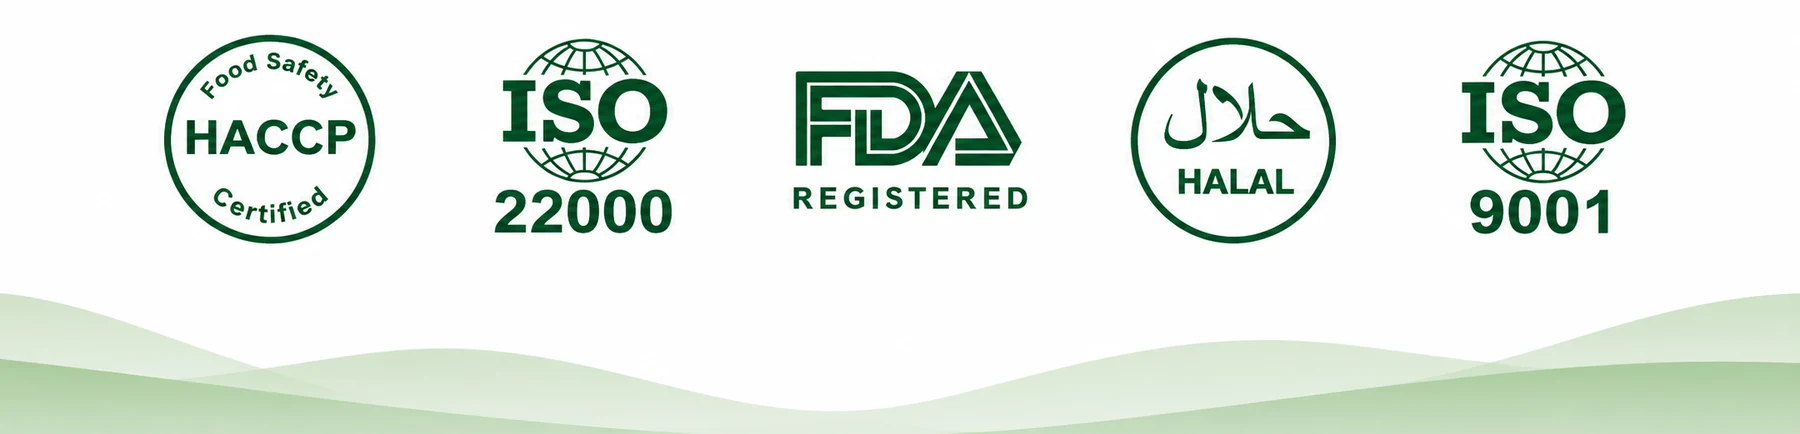
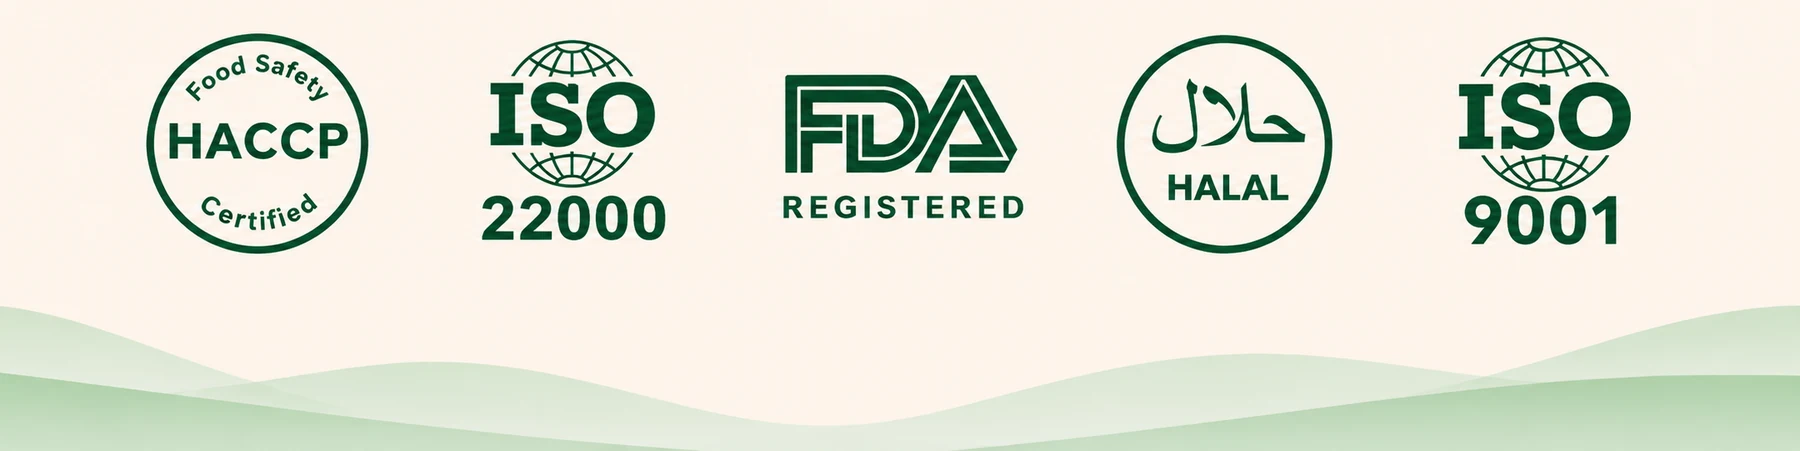
Certifications: cream background version
Claude-Session: https://claude.ai/code/session_01Wu3ib24CSR1WmWNgsW1HyU

diff --git a/css/style.css b/css/style.css
@@ -541,7 +541,7 @@ p{ margin:0 0 1em; color:var(--ink-soft); max-width:62ch; }
 @media (max-width:900px){ .hero{ height:auto !important; } .hero .wave{ display:none; } .hero-grid > div{ max-width:none; } .hero{ padding-top:36px !important; } }
 
 /* ---- certifications banner ---- */
-.cert-section{ background:#fefefe; padding-top:clamp(40px,5vw,64px); overflow:hidden; }
+.cert-section{ background:#fdf4eb; padding-top:clamp(40px,5vw,64px); overflow:hidden; }
 .cert-title{ text-align:center; margin:0; font-family:var(--font-body, inherit); font-weight:800; text-transform:uppercase;
   letter-spacing:.28em; font-size:clamp(1.1rem,2.6vw,2rem);
   background:linear-gradient(90deg,var(--green-800) 0%,var(--green-800) 40%,var(--gold) 100%); -webkit-background-clip:text; background-clip:text; color:transparent; }

diff --git a/index.html b/index.html
@@ -164,7 +164,7 @@
   <div class="container">
     <h2 class="cert-title reveal" data-en="Our Certifications" data-vi="Chứng nhận của chúng tôi">Our Certifications</h2>
   </div>
-  <img class="cert-strip" src="images/cert-strip.webp" alt="HACCP Food Safety Certified, ISO 22000, FDA Registered, HALAL, ISO 9001" width="1800" height="434" loading="lazy">
+  <img class="cert-strip" src="images/cert-strip.webp" alt="HACCP Food Safety Certified, ISO 22000, FDA Registered, HALAL, ISO 9001" width="1800" height="451" loading="lazy">
 </section>
 
 <!-- ============ CTA ============ -->
